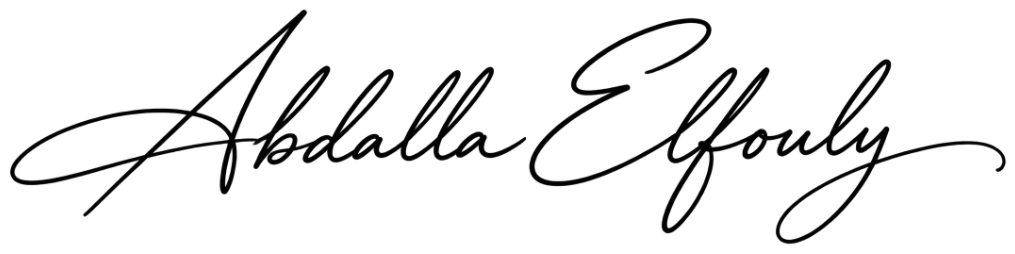
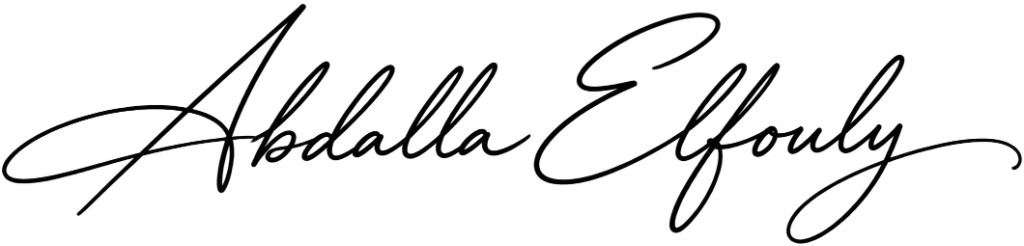
feat(signature): update native Abdalla Elfouly signature, equalize card spacing, and update Arabic headline

diff --git a/public/proposals/mdi/QT7.html b/public/proposals/mdi/QT7.html
@@ -1450,14 +1450,14 @@
               <span class="text-slate-400" id="sign-lbl-title1">Title:</span>
               <span class="font-semibold text-slate-200 font-mono" id="sign-val-title1">Managing Director</span>
             </div>
-            <div class="flex items-center justify-between pt-2">
-              <span class="text-slate-400 self-center" id="sign-lbl-sig1">Signature:</span>
-              <div class="inline-flex items-center justify-center py-1">
+            <div class="flex items-center justify-between h-9">
+              <span class="text-slate-400" id="sign-lbl-sig1">Signature:</span>
+              <div class="inline-flex items-center justify-end h-full">
                 <!-- Authentic Native Hand-drawn Signature of Abdalla Hassan Elfouly -->
-                <img src="signature-light.png" onerror="if(!this.dataset.fallback){this.dataset.fallback=1;this.src='/proposals/mdi/launching/signature-light.png';}" alt="Signature of Abdalla Hassan Elfouly" class="h-14 sm:h-16 w-auto max-w-[200px] object-contain select-none pointer-events-none filter drop-shadow-[0_2px_12px_rgba(255,255,255,0.15)] brightness-110" id="agency-signature-img">
+                <img src="signature-light.png" onerror="if(!this.dataset.fallback){this.dataset.fallback=1;this.src='/proposals/mdi/launching/signature-light.png';}" alt="Signature of Abdalla Hassan Elfouly" class="h-8 sm:h-9 w-auto max-w-[180px] object-contain select-none pointer-events-none filter drop-shadow-[0_2px_10px_rgba(255,255,255,0.18)]" id="agency-signature-img">
               </div>
             </div>
-            <div class="flex items-center justify-between pt-1">
+            <div class="flex items-center justify-between">
               <span class="text-slate-400" id="sign-lbl-date1">Date:</span>
               <span class="font-semibold text-white font-mono">05 / 10 / 2026</span>
             </div>
@@ -1479,9 +1479,11 @@
               <span class="text-slate-400" id="sign-lbl-title2">Title:</span>
               <span class="font-semibold text-white font-mono">____________________</span>
             </div>
-            <div class="flex items-center justify-between">
+            <div class="flex items-center justify-between h-9">
               <span class="text-slate-400" id="sign-lbl-sig2">Signature:</span>
-              <span class="font-semibold text-white font-mono">____________________</span>
+              <div class="inline-flex items-center justify-end h-full">
+                <span class="font-semibold text-white font-mono">____________________</span>
+              </div>
             </div>
             <div class="flex items-center justify-between">
               <span class="text-slate-400" id="sign-lbl-date2">Date:</span>
@@ -2163,7 +2165,7 @@
         heroBrandBadge: 'مُقدّم إلى: وان بنك (OneBank)',
         heroRef: 'المرجع: DIC-MDI-2026-LAUNCH',
         heroDate: '5 أكتوبر 2026',
-        heroTitle: 'باقة الإنتاج المتكامل للتصوير الفوتوغرافي والفيديو',
+        heroTitle: 'باقة الإنتاج المتكامل للتصوير الفوتوغرافي والفيديوهات الإرشادية',
         heroSubtitle: 'التطوير الإبداعي، التصوير متعدد المواقع، والإنتاج والمونتاج النهائي',
         heroGreeting: 'السادة فريق وان بنك المحترمين،',
         heroExec: 'يسر شركة دبي في القاهرة (Dubai in Cairo LLC) تقديم هذا العرض لباقة الإنتاج المتكامل للتصوير الفوتوغرافي والفيديو، والتي تشمل التطوير الإبداعي وتخطيط الإنتاج والتصوير والمونتاج بما يتوافق مع الدليل الإرشادي المعتمد لهوية وان بنك.',

diff --git a/public/proposals/mdi/QT7/index.html b/public/proposals/mdi/QT7/index.html
@@ -1450,14 +1450,14 @@
               <span class="text-slate-400" id="sign-lbl-title1">Title:</span>
               <span class="font-semibold text-slate-200 font-mono" id="sign-val-title1">Managing Director</span>
             </div>
-            <div class="flex items-center justify-between pt-2">
-              <span class="text-slate-400 self-center" id="sign-lbl-sig1">Signature:</span>
-              <div class="inline-flex items-center justify-center py-1">
+            <div class="flex items-center justify-between h-9">
+              <span class="text-slate-400" id="sign-lbl-sig1">Signature:</span>
+              <div class="inline-flex items-center justify-end h-full">
                 <!-- Authentic Native Hand-drawn Signature of Abdalla Hassan Elfouly -->
-                <img src="signature-light.png" onerror="if(!this.dataset.fallback){this.dataset.fallback=1;this.src='/proposals/mdi/launching/signature-light.png';}" alt="Signature of Abdalla Hassan Elfouly" class="h-14 sm:h-16 w-auto max-w-[200px] object-contain select-none pointer-events-none filter drop-shadow-[0_2px_12px_rgba(255,255,255,0.15)] brightness-110" id="agency-signature-img">
+                <img src="signature-light.png" onerror="if(!this.dataset.fallback){this.dataset.fallback=1;this.src='/proposals/mdi/launching/signature-light.png';}" alt="Signature of Abdalla Hassan Elfouly" class="h-8 sm:h-9 w-auto max-w-[180px] object-contain select-none pointer-events-none filter drop-shadow-[0_2px_10px_rgba(255,255,255,0.18)]" id="agency-signature-img">
               </div>
             </div>
-            <div class="flex items-center justify-between pt-1">
+            <div class="flex items-center justify-between">
               <span class="text-slate-400" id="sign-lbl-date1">Date:</span>
               <span class="font-semibold text-white font-mono">05 / 10 / 2026</span>
             </div>
@@ -1479,9 +1479,11 @@
               <span class="text-slate-400" id="sign-lbl-title2">Title:</span>
               <span class="font-semibold text-white font-mono">____________________</span>
             </div>
-            <div class="flex items-center justify-between">
+            <div class="flex items-center justify-between h-9">
               <span class="text-slate-400" id="sign-lbl-sig2">Signature:</span>
-              <span class="font-semibold text-white font-mono">____________________</span>
+              <div class="inline-flex items-center justify-end h-full">
+                <span class="font-semibold text-white font-mono">____________________</span>
+              </div>
             </div>
             <div class="flex items-center justify-between">
               <span class="text-slate-400" id="sign-lbl-date2">Date:</span>
@@ -2163,7 +2165,7 @@
         heroBrandBadge: 'مُقدّم إلى: وان بنك (OneBank)',
         heroRef: 'المرجع: DIC-MDI-2026-LAUNCH',
         heroDate: '5 أكتوبر 2026',
-        heroTitle: 'باقة الإنتاج المتكامل للتصوير الفوتوغرافي والفيديو',
+        heroTitle: 'باقة الإنتاج المتكامل للتصوير الفوتوغرافي والفيديوهات الإرشادية',
         heroSubtitle: 'التطوير الإبداعي، التصوير متعدد المواقع، والإنتاج والمونتاج النهائي',
         heroGreeting: 'السادة فريق وان بنك المحترمين،',
         heroExec: 'يسر شركة دبي في القاهرة (Dubai in Cairo LLC) تقديم هذا العرض لباقة الإنتاج المتكامل للتصوير الفوتوغرافي والفيديو، والتي تشمل التطوير الإبداعي وتخطيط الإنتاج والتصوير والمونتاج بما يتوافق مع الدليل الإرشادي المعتمد لهوية وان بنك.',

diff --git a/public/proposals/mdi/index.html b/public/proposals/mdi/index.html
@@ -1450,14 +1450,14 @@
               <span class="text-slate-400" id="sign-lbl-title1">Title:</span>
               <span class="font-semibold text-slate-200 font-mono" id="sign-val-title1">Managing Director</span>
             </div>
-            <div class="flex items-center justify-between pt-2">
-              <span class="text-slate-400 self-center" id="sign-lbl-sig1">Signature:</span>
-              <div class="inline-flex items-center justify-center py-1">
+            <div class="flex items-center justify-between h-9">
+              <span class="text-slate-400" id="sign-lbl-sig1">Signature:</span>
+              <div class="inline-flex items-center justify-end h-full">
                 <!-- Authentic Native Hand-drawn Signature of Abdalla Hassan Elfouly -->
-                <img src="signature-light.png" onerror="if(!this.dataset.fallback){this.dataset.fallback=1;this.src='/proposals/mdi/launching/signature-light.png';}" alt="Signature of Abdalla Hassan Elfouly" class="h-14 sm:h-16 w-auto max-w-[200px] object-contain select-none pointer-events-none filter drop-shadow-[0_2px_12px_rgba(255,255,255,0.15)] brightness-110" id="agency-signature-img">
+                <img src="signature-light.png" onerror="if(!this.dataset.fallback){this.dataset.fallback=1;this.src='/proposals/mdi/launching/signature-light.png';}" alt="Signature of Abdalla Hassan Elfouly" class="h-8 sm:h-9 w-auto max-w-[180px] object-contain select-none pointer-events-none filter drop-shadow-[0_2px_10px_rgba(255,255,255,0.18)]" id="agency-signature-img">
               </div>
             </div>
-            <div class="flex items-center justify-between pt-1">
+            <div class="flex items-center justify-between">
               <span class="text-slate-400" id="sign-lbl-date1">Date:</span>
               <span class="font-semibold text-white font-mono">05 / 10 / 2026</span>
             </div>
@@ -1479,9 +1479,11 @@
               <span class="text-slate-400" id="sign-lbl-title2">Title:</span>
               <span class="font-semibold text-white font-mono">____________________</span>
             </div>
-            <div class="flex items-center justify-between">
+            <div class="flex items-center justify-between h-9">
               <span class="text-slate-400" id="sign-lbl-sig2">Signature:</span>
-              <span class="font-semibold text-white font-mono">____________________</span>
+              <div class="inline-flex items-center justify-end h-full">
+                <span class="font-semibold text-white font-mono">____________________</span>
+              </div>
             </div>
             <div class="flex items-center justify-between">
               <span class="text-slate-400" id="sign-lbl-date2">Date:</span>
@@ -2163,7 +2165,7 @@
         heroBrandBadge: 'مُقدّم إلى: وان بنك (OneBank)',
         heroRef: 'المرجع: DIC-MDI-2026-LAUNCH',
         heroDate: '5 أكتوبر 2026',
-        heroTitle: 'باقة الإنتاج المتكامل للتصوير الفوتوغرافي والفيديو',
+        heroTitle: 'باقة الإنتاج المتكامل للتصوير الفوتوغرافي والفيديوهات الإرشادية',
         heroSubtitle: 'التطوير الإبداعي، التصوير متعدد المواقع، والإنتاج والمونتاج النهائي',
         heroGreeting: 'السادة فريق وان بنك المحترمين،',
         heroExec: 'يسر شركة دبي في القاهرة (Dubai in Cairo LLC) تقديم هذا العرض لباقة الإنتاج المتكامل للتصوير الفوتوغرافي والفيديو، والتي تشمل التطوير الإبداعي وتخطيط الإنتاج والتصوير والمونتاج بما يتوافق مع الدليل الإرشادي المعتمد لهوية وان بنك.',

diff --git a/public/proposals/mdi/launching.html b/public/proposals/mdi/launching.html
@@ -1450,14 +1450,14 @@
               <span class="text-slate-400" id="sign-lbl-title1">Title:</span>
               <span class="font-semibold text-slate-200 font-mono" id="sign-val-title1">Managing Director</span>
             </div>
-            <div class="flex items-center justify-between pt-2">
-              <span class="text-slate-400 self-center" id="sign-lbl-sig1">Signature:</span>
-              <div class="inline-flex items-center justify-center py-1">
+            <div class="flex items-center justify-between h-9">
+              <span class="text-slate-400" id="sign-lbl-sig1">Signature:</span>
+              <div class="inline-flex items-center justify-end h-full">
                 <!-- Authentic Native Hand-drawn Signature of Abdalla Hassan Elfouly -->
-                <img src="signature-light.png" onerror="if(!this.dataset.fallback){this.dataset.fallback=1;this.src='/proposals/mdi/launching/signature-light.png';}" alt="Signature of Abdalla Hassan Elfouly" class="h-14 sm:h-16 w-auto max-w-[200px] object-contain select-none pointer-events-none filter drop-shadow-[0_2px_12px_rgba(255,255,255,0.15)] brightness-110" id="agency-signature-img">
+                <img src="signature-light.png" onerror="if(!this.dataset.fallback){this.dataset.fallback=1;this.src='/proposals/mdi/launching/signature-light.png';}" alt="Signature of Abdalla Hassan Elfouly" class="h-8 sm:h-9 w-auto max-w-[180px] object-contain select-none pointer-events-none filter drop-shadow-[0_2px_10px_rgba(255,255,255,0.18)]" id="agency-signature-img">
               </div>
             </div>
-            <div class="flex items-center justify-between pt-1">
+            <div class="flex items-center justify-between">
               <span class="text-slate-400" id="sign-lbl-date1">Date:</span>
               <span class="font-semibold text-white font-mono">05 / 10 / 2026</span>
             </div>
@@ -1479,9 +1479,11 @@
               <span class="text-slate-400" id="sign-lbl-title2">Title:</span>
               <span class="font-semibold text-white font-mono">____________________</span>
             </div>
-            <div class="flex items-center justify-between">
+            <div class="flex items-center justify-between h-9">
               <span class="text-slate-400" id="sign-lbl-sig2">Signature:</span>
-              <span class="font-semibold text-white font-mono">____________________</span>
+              <div class="inline-flex items-center justify-end h-full">
+                <span class="font-semibold text-white font-mono">____________________</span>
+              </div>
             </div>
             <div class="flex items-center justify-between">
               <span class="text-slate-400" id="sign-lbl-date2">Date:</span>
@@ -2163,7 +2165,7 @@
         heroBrandBadge: 'مُقدّم إلى: وان بنك (OneBank)',
         heroRef: 'المرجع: DIC-MDI-2026-LAUNCH',
         heroDate: '5 أكتوبر 2026',
-        heroTitle: 'باقة الإنتاج المتكامل للتصوير الفوتوغرافي والفيديو',
+        heroTitle: 'باقة الإنتاج المتكامل للتصوير الفوتوغرافي والفيديوهات الإرشادية',
         heroSubtitle: 'التطوير الإبداعي، التصوير متعدد المواقع، والإنتاج والمونتاج النهائي',
         heroGreeting: 'السادة فريق وان بنك المحترمين،',
         heroExec: 'يسر شركة دبي في القاهرة (Dubai in Cairo LLC) تقديم هذا العرض لباقة الإنتاج المتكامل للتصوير الفوتوغرافي والفيديو، والتي تشمل التطوير الإبداعي وتخطيط الإنتاج والتصوير والمونتاج بما يتوافق مع الدليل الإرشادي المعتمد لهوية وان بنك.',

diff --git a/public/proposals/mdi/launching/index.html b/public/proposals/mdi/launching/index.html
@@ -1450,14 +1450,14 @@
               <span class="text-slate-400" id="sign-lbl-title1">Title:</span>
               <span class="font-semibold text-slate-200 font-mono" id="sign-val-title1">Managing Director</span>
             </div>
-            <div class="flex items-center justify-between pt-2">
-              <span class="text-slate-400 self-center" id="sign-lbl-sig1">Signature:</span>
-              <div class="inline-flex items-center justify-center py-1">
+            <div class="flex items-center justify-between h-9">
+              <span class="text-slate-400" id="sign-lbl-sig1">Signature:</span>
+              <div class="inline-flex items-center justify-end h-full">
                 <!-- Authentic Native Hand-drawn Signature of Abdalla Hassan Elfouly -->
-                <img src="signature-light.png" onerror="if(!this.dataset.fallback){this.dataset.fallback=1;this.src='/proposals/mdi/launching/signature-light.png';}" alt="Signature of Abdalla Hassan Elfouly" class="h-14 sm:h-16 w-auto max-w-[200px] object-contain select-none pointer-events-none filter drop-shadow-[0_2px_12px_rgba(255,255,255,0.15)] brightness-110" id="agency-signature-img">
+                <img src="signature-light.png" onerror="if(!this.dataset.fallback){this.dataset.fallback=1;this.src='/proposals/mdi/launching/signature-light.png';}" alt="Signature of Abdalla Hassan Elfouly" class="h-8 sm:h-9 w-auto max-w-[180px] object-contain select-none pointer-events-none filter drop-shadow-[0_2px_10px_rgba(255,255,255,0.18)]" id="agency-signature-img">
               </div>
             </div>
-            <div class="flex items-center justify-between pt-1">
+            <div class="flex items-center justify-between">
               <span class="text-slate-400" id="sign-lbl-date1">Date:</span>
               <span class="font-semibold text-white font-mono">05 / 10 / 2026</span>
             </div>
@@ -1479,9 +1479,11 @@
               <span class="text-slate-400" id="sign-lbl-title2">Title:</span>
               <span class="font-semibold text-white font-mono">____________________</span>
             </div>
-            <div class="flex items-center justify-between">
+            <div class="flex items-center justify-between h-9">
               <span class="text-slate-400" id="sign-lbl-sig2">Signature:</span>
-              <span class="font-semibold text-white font-mono">____________________</span>
+              <div class="inline-flex items-center justify-end h-full">
+                <span class="font-semibold text-white font-mono">____________________</span>
+              </div>
             </div>
             <div class="flex items-center justify-between">
               <span class="text-slate-400" id="sign-lbl-date2">Date:</span>
@@ -2163,7 +2165,7 @@
         heroBrandBadge: 'مُقدّم إلى: وان بنك (OneBank)',
         heroRef: 'المرجع: DIC-MDI-2026-LAUNCH',
         heroDate: '5 أكتوبر 2026',
-        heroTitle: 'باقة الإنتاج المتكامل للتصوير الفوتوغرافي والفيديو',
+        heroTitle: 'باقة الإنتاج المتكامل للتصوير الفوتوغرافي والفيديوهات الإرشادية',
         heroSubtitle: 'التطوير الإبداعي، التصوير متعدد المواقع، والإنتاج والمونتاج النهائي',
         heroGreeting: 'السادة فريق وان بنك المحترمين،',
         heroExec: 'يسر شركة دبي في القاهرة (Dubai in Cairo LLC) تقديم هذا العرض لباقة الإنتاج المتكامل للتصوير الفوتوغرافي والفيديو، والتي تشمل التطوير الإبداعي وتخطيط الإنتاج والتصوير والمونتاج بما يتوافق مع الدليل الإرشادي المعتمد لهوية وان بنك.',

diff --git a/public/proposals/mdi/launching/proposal_document.html b/public/proposals/mdi/launching/proposal_document.html
@@ -489,11 +489,11 @@
               <span class="text-slate-500" id="doc-sign-lbl-title1">Title:</span>
               <span class="font-semibold text-slate-800 font-mono" id="doc-sign-val-title1">Managing Director</span>
             </div>
-            <div class="flex justify-between items-center pt-1">
+            <div class="flex justify-between items-center h-8">
               <span class="text-slate-500" id="doc-sign-lbl-sig1">Signature:</span>
-              <div class="inline-flex items-center justify-center">
+              <div class="inline-flex items-center justify-end h-full">
                 <!-- Native signature rendered in crisp dark ink -->
-                <img src="signature-dark.png" onerror="if(!this.dataset.fallback){this.dataset.fallback=1;this.src='signature-light.png';this.style.filter='invert(1)';}" alt="Signature of Abdalla Hassan Elfouly" class="h-14 w-auto max-w-[180px] object-contain select-none" id="doc-signature-img">
+                <img src="signature-dark.png" onerror="if(!this.dataset.fallback){this.dataset.fallback=1;this.src='signature-light.png';this.style.filter='invert(1)';}" alt="Signature of Abdalla Hassan Elfouly" class="h-8 w-auto max-w-[170px] object-contain select-none" id="doc-signature-img">
               </div>
             </div>
             <div class="flex justify-between items-center pt-1 border-t border-slate-200">
@@ -519,9 +519,11 @@
               <span class="text-slate-500" id="doc-sign-lbl-title2">Title:</span>
               <span class="font-semibold text-slate-800 font-mono">____________________________</span>
             </div>
-            <div class="flex justify-between items-center pt-2">
+            <div class="flex justify-between items-center h-8">
               <span class="text-slate-500" id="doc-sign-lbl-sig2">Signature:</span>
-              <span class="font-semibold text-slate-800 font-mono">____________________________</span>
+              <div class="inline-flex items-center justify-end h-full">
+                <span class="font-semibold text-slate-800 font-mono">____________________________</span>
+              </div>
             </div>
             <div class="flex justify-between items-center pt-1 border-t border-slate-200">
               <span class="text-slate-500" id="doc-sign-lbl-date2">Date:</span>

diff --git a/public/proposals/mdi/proposal_document.html b/public/proposals/mdi/proposal_document.html
@@ -489,11 +489,11 @@
               <span class="text-slate-500" id="doc-sign-lbl-title1">Title:</span>
               <span class="font-semibold text-slate-800 font-mono" id="doc-sign-val-title1">Managing Director</span>
             </div>
-            <div class="flex justify-between items-center pt-1">
+            <div class="flex justify-between items-center h-8">
               <span class="text-slate-500" id="doc-sign-lbl-sig1">Signature:</span>
-              <div class="inline-flex items-center justify-center">
+              <div class="inline-flex items-center justify-end h-full">
                 <!-- Native signature rendered in crisp dark ink -->
-                <img src="signature-dark.png" onerror="if(!this.dataset.fallback){this.dataset.fallback=1;this.src='signature-light.png';this.style.filter='invert(1)';}" alt="Signature of Abdalla Hassan Elfouly" class="h-14 w-auto max-w-[180px] object-contain select-none" id="doc-signature-img">
+                <img src="signature-dark.png" onerror="if(!this.dataset.fallback){this.dataset.fallback=1;this.src='signature-light.png';this.style.filter='invert(1)';}" alt="Signature of Abdalla Hassan Elfouly" class="h-8 w-auto max-w-[170px] object-contain select-none" id="doc-signature-img">
               </div>
             </div>
             <div class="flex justify-between items-center pt-1 border-t border-slate-200">
@@ -519,9 +519,11 @@
               <span class="text-slate-500" id="doc-sign-lbl-title2">Title:</span>
               <span class="font-semibold text-slate-800 font-mono">____________________________</span>
             </div>
-            <div class="flex justify-between items-center pt-2">
+            <div class="flex justify-between items-center h-8">
               <span class="text-slate-500" id="doc-sign-lbl-sig2">Signature:</span>
-              <span class="font-semibold text-slate-800 font-mono">____________________________</span>
+              <div class="inline-flex items-center justify-end h-full">
+                <span class="font-semibold text-slate-800 font-mono">____________________________</span>
+              </div>
             </div>
             <div class="flex justify-between items-center pt-1 border-t border-slate-200">
               <span class="text-slate-500" id="doc-sign-lbl-date2">Date:</span>
